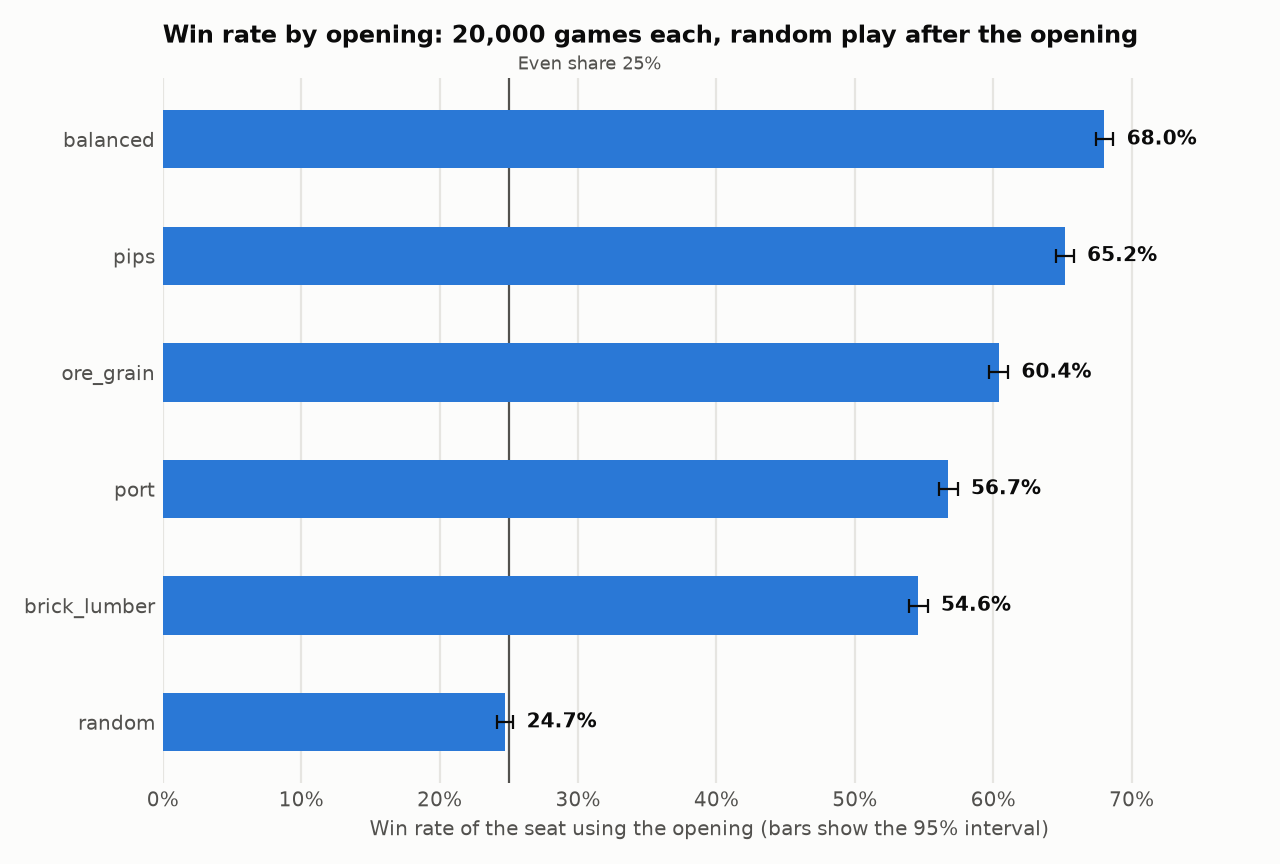
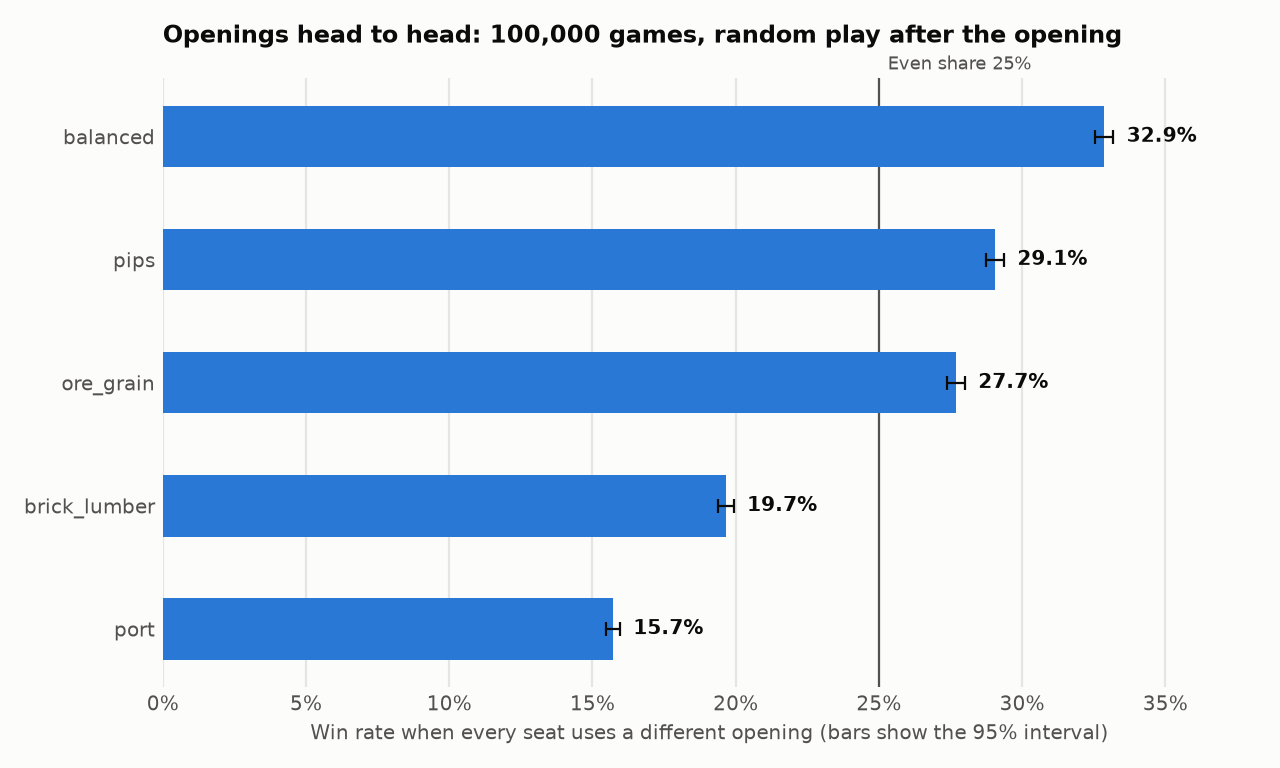
Make openings compete head to head
- tournament(): a different opening in every seat, line-ups and seats
  shuffled by seed, random play after the opening
- The openings command now runs the tournament by default; --vs-random
  keeps the old one-against-random test and --diff shows both
- Reports win rate with a 95% interval and average final points

100,000 games: balanced 32.9%, pips 29.1%, ore_grain 27.7%,
brick_lumber 19.7%, port 15.7% (even share 25%). 135 tests pass.

Claude-Session: https://claude.ai/code/session_01WC5th3RkuK2U1LpzMSe6fm

diff --git a/backend/src/engine/openings.py b/backend/src/engine/openings.py
@@ -1,14 +1,20 @@
 """Compare opening policies.
 
-One seat uses the opening under test; the other three open at random. Everyone
-plays at random after the opening, so any change in that seat's win rate comes
-from where it placed its first two settlements and roads.
+Everyone plays at random after the opening, so differences in win rate come
+from where the first two settlements and roads were placed.
 
-    uv run python -m src.engine.openings --games 20000 --workers 16 --plot ../docs
+Head to head (the default): every seat in a game uses a different opening, so
+the policies compete for the same spots. Line-ups and seats are shuffled.
+
+Against random (``--vs-random``): one seat uses the opening under test and the
+other three open at random.
+
+    uv run python -m src.engine.openings --games 100000 --workers 16 --diff --plot ../docs
 """
 import argparse
 import math
 import os
+import random
 import time
 from multiprocessing import Pool
 
@@ -28,6 +34,49 @@ def _play_batch(args):
             finished += 1
             wins += game.winner == seat
     return opening, wins, finished
+
+
+def _tournament_batch(args):
+    openings, seeds, num_players = args
+    plays = {name: 0 for name in openings}
+    wins = {name: 0 for name in openings}
+    points = {name: 0 for name in openings}
+    for seed in seeds:
+        # A different opening in every seat, drawn and ordered by the seed.
+        lineup = random.Random(seed * 7919 + 1).sample(openings, num_players)
+        game = run_game([PhasedBot(name) for name in lineup], seed)
+        if game.winner < 0:
+            continue
+        for seat, name in enumerate(lineup):
+            plays[name] += 1
+            points[name] += game.victory_points(seat)
+        wins[lineup[game.winner]] += 1
+    return plays, wins, points
+
+
+def tournament(openings, games, num_players=4, workers=1, seed=0):
+    """Play openings against each other, a different one in every seat.
+
+    Returns {opening: (wins, games played, total points)}.
+    """
+    openings = list(openings)
+    if len(openings) < num_players:
+        raise ValueError(f"need at least {num_players} openings to fill every seat")
+    seeds = range(seed, seed + games)
+    chunk = max(1, games // (max(workers, 1) * 4))
+    jobs = [(openings, seeds[i:i + chunk], num_players) for i in range(0, games, chunk)]
+    totals = {name: [0, 0, 0] for name in openings}
+    if workers <= 1:
+        results = list(map(_tournament_batch, jobs))
+    else:
+        with Pool(workers) as pool:
+            results = pool.map(_tournament_batch, jobs)
+    for plays, wins, points in results:
+        for name in openings:
+            totals[name][0] += wins[name]
+            totals[name][1] += plays[name]
+            totals[name][2] += points[name]
+    return {name: tuple(v) for name, v in totals.items()}
 
 
 def compare(openings, games, num_players=4, workers=1, seed=0):
@@ -61,14 +110,15 @@ def summarize(totals, num_players):
     """Rows of (opening, win rate, 95% margin, lift over an even share), best first."""
     even = 1 / num_players
     rows = []
-    for opening, (wins, n) in totals.items():
+    for opening, total in totals.items():
+        wins, n = total[0], total[1]
         rate = wins / n
         margin = 1.96 * math.sqrt(rate * (1 - rate) / n)
         rows.append((opening, rate, margin, rate - even))
     return sorted(rows, key=lambda row: -row[1])
 
 
-def plot(rows, num_players, games, path):
+def plot(rows, num_players, path, title, xlabel):
     """Save a bar chart of win rate by opening, with 95% intervals."""
     plt = _pyplot()
     rows = rows[::-1]
@@ -89,41 +139,79 @@ def plot(rows, num_players, games, path):
                     textcoords="offset points", va="center", color=_INK, fontsize=9, fontweight="bold")
     ax.set_xlim(0, max(r + m for r, m in zip(rates, margins)) * 1.15)
     ax.xaxis.set_major_formatter(lambda v, _: f"{v:.0f}%")
-    ax.set_xlabel("Win rate of the seat using the opening (bars show the 95% interval)", color=_MUTED, fontsize=9)
-    ax.set_title(f"Win rate by opening: {games:,} games each, random play after the opening",
-                 loc="left", color=_INK, fontsize=11, fontweight="bold", pad=16)
+    ax.set_xlabel(xlabel, color=_MUTED, fontsize=9)
+    ax.set_title(title, loc="left", color=_INK, fontsize=11, fontweight="bold", pad=16)
     fig.tight_layout()
     fig.savefig(path, facecolor=_SURFACE)
     plt.close(fig)
 
 
 def main():
+    competitors = sorted(name for name in OPENINGS if name != "random")
     parser = argparse.ArgumentParser(description="Compare opening policies")
-    parser.add_argument("--games", type=int, default=5000, help="games per opening")
+    parser.add_argument("--games", type=int, default=5000,
+                        help="games in the tournament, or games per opening with --vs-random")
     parser.add_argument("--players", type=int, default=4, choices=(2, 3, 4))
     parser.add_argument("--workers", type=int, default=1, help=f"processes to use (this machine has {os.cpu_count()})")
     parser.add_argument("--seed", type=int, default=0)
-    parser.add_argument("--openings", nargs="*", default=sorted(OPENINGS), choices=sorted(OPENINGS))
-    parser.add_argument("--plot", metavar="DIR", help="save openings.png here (needs matplotlib)")
+    parser.add_argument("--openings", nargs="*", default=competitors, choices=sorted(OPENINGS))
+    parser.add_argument("--vs-random", action="store_true",
+                        help="test each opening alone against three random openings instead")
+    parser.add_argument("--diff", action="store_true",
+                        help="after the tournament, also run --vs-random and show both side by side")
+    parser.add_argument("--plot", metavar="DIR", help="save a chart here (needs matplotlib)")
     args = parser.parse_args()
+    even = 1 / args.players
+    after = "random play after the opening"
+
+    if args.vs_random:
+        start = time.perf_counter()
+        rows = summarize(compare(args.openings, args.games, args.players, args.workers, args.seed), args.players)
+        elapsed = time.perf_counter() - start
+        print(f"Against random openings: {args.games} games per opening, {args.workers} worker(s), {elapsed:.1f} s")
+        print()
+        print(f"  {'opening':<14}{'win rate':>10}{'+/-':>8}{'vs even':>10}")
+        for opening, rate, margin, lift in rows:
+            print(f"  {opening:<14}{rate:>10.1%}{margin:>8.1%}{lift:>+10.1%}")
+        if args.plot:
+            os.makedirs(args.plot, exist_ok=True)
+            path = os.path.join(args.plot, "openings_vs_random.png")
+            plot(rows, args.players, path, f"Win rate against random openings: {args.games:,} games each, {after}",
+                 "Win rate of the seat using the opening (bars show the 95% interval)")
+            print()
+            print(f"  chart   {path}")
+        return
 
     start = time.perf_counter()
-    totals = compare(args.openings, args.games, args.players, args.workers, args.seed)
+    totals = tournament(args.openings, args.games, args.players, args.workers, args.seed)
     elapsed = time.perf_counter() - start
     rows = summarize(totals, args.players)
-    played = args.games * len(args.openings)
-
-    print(f"{args.games} games per opening, {args.players} players, {args.workers} worker(s)")
-    print(f"  time    {elapsed:.1f} s   ({played / elapsed:,.0f} games/s)")
-    print(f"\n  {'opening':<14}{'win rate':>10}{'+/-':>8}{'vs even':>10}")
+    print(f"Head to head: {args.games} games, a different opening in every seat, {args.workers} worker(s)")
+    print(f"  time    {elapsed:.1f} s   ({args.games / elapsed:,.0f} games/s)")
+    print()
+    print(f"  {'opening':<14}{'games':>8}{'win rate':>10}{'+/-':>8}{'vs even':>10}{'avg points':>12}")
     for opening, rate, margin, lift in rows:
-        print(f"  {opening:<14}{rate:>10.1%}{margin:>8.1%}{lift:>+10.1%}")
+        wins, played, points = totals[opening]
+        print(f"  {opening:<14}{played:>8}{rate:>10.1%}{margin:>8.1%}{lift:>+10.1%}{points / played:>12.2f}")
 
     if args.plot:
         os.makedirs(args.plot, exist_ok=True)
         path = os.path.join(args.plot, "openings.png")
-        plot(rows, args.players, args.games, path)
-        print(f"\n  chart   {path}")
+        plot(rows, args.players, path, f"Openings head to head: {args.games:,} games, {after}",
+             "Win rate when every seat uses a different opening (bars show the 95% interval)")
+        print()
+        print(f"  chart   {path}")
+
+    if args.diff:
+        per_opening = max(1, args.games // len(args.openings))
+        solo = {r[0]: r for r in summarize(
+            compare(args.openings, per_opening, args.players, args.workers, args.seed), args.players)}
+        print()
+        print(f"Head to head, next to each opening alone against three random openings ({per_opening} games each)")
+        print(f"  {'opening':<14}{'head to head':>14}{'rank':>6}{'vs random':>12}{'rank':>6}")
+        solo_rank = {name: i + 1 for i, name in enumerate(sorted(solo, key=lambda n: -solo[n][1]))}
+        for i, (opening, rate, _, lift) in enumerate(rows):
+            print(f"  {opening:<14}{rate:>14.1%}{i + 1:>6}{solo[opening][1]:>12.1%}{solo_rank[opening]:>6}")
 
 
 if __name__ == "__main__":

diff --git a/backend/tests/test_engine.py b/backend/tests/test_engine.py
@@ -552,3 +552,14 @@ def test_opening_comparison_counts_every_game_and_is_repeatable():
     assert totals == opening_experiment.compare(["random", "pips"], games=40, seed=1)
     rows = opening_experiment.summarize(totals, 4)
     assert rows[0][1] >= rows[1][1]
+
+
+def test_tournament_fills_every_seat_with_a_different_opening():
+    names = ["pips", "balanced", "ore_grain", "brick_lumber", "port"]
+    totals = opening_experiment.tournament(names, games=60, seed=2)
+    assert set(totals) == set(names)
+    assert sum(wins for wins, _, _ in totals.values()) == 60  # one winner per game
+    assert sum(played for _, played, _ in totals.values()) == 60 * 4
+    assert totals == opening_experiment.tournament(names, games=60, seed=2)
+    with pytest.raises(ValueError):
+        opening_experiment.tournament(["pips", "balanced"], games=1)

diff --git a/README.md b/README.md
@@ -68,24 +68,23 @@ bots = [PhasedBot("balanced"), PhasedBot("random"), PhasedBot("random"), PhasedB
 game = run_game(bots, seed=1)
 ```
 
-To compare openings, one seat uses the opening under test, the other three open at random, and everyone plays at random afterwards. The seat rotates and every opening sees the same seeds.
+Openings compete head to head: every seat in a game uses a different opening, with line-ups and seats shuffled, and everyone plays at random afterwards.
 
 ```bash
-uv run python -m src.engine.openings --games 20000 --workers 16 --plot ../docs
+uv run python -m src.engine.openings --games 100000 --workers 16 --diff --plot ../docs
 ```
 
-![Win rate by opening](docs/openings.png)
+![Openings head to head](docs/openings.png)
 
-| Opening | What it picks | Win rate |
-|---|---|---|
-| `balanced` | Most dice pips, plus a bonus for each different resource | 68.0% |
-| `pips` | Most dice pips | 65.2% |
-| `ore_grain` | Pips weighted toward ore and grain | 60.4% |
-| `port` | Pips plus a bonus for a harbour | 56.7% |
-| `brick_lumber` | Pips weighted toward brick and lumber | 54.6% |
-| `random` | Any legal spot | 24.7% |
+| Opening | What it picks | Head to head | Alone against random openings |
+|---|---|---|---|
+| `balanced` | Most dice pips, plus a bonus for each different resource | 32.9% | 68.0% |
+| `pips` | Most dice pips | 29.1% | 65.2% |
+| `ore_grain` | Pips weighted toward ore and grain | 27.7% | 60.4% |
+| `brick_lumber` | Pips weighted toward brick and lumber | 19.7% | 54.6% |
+| `port` | Pips plus a bonus for a harbour | 15.7% | 56.7% |
 
-Each is 20,000 games, accurate to about 0.7 points. These measure an opening against opponents who open at random, not against each other.
+An even share is 25%. Head-to-head figures come from 100,000 games (about 80,000 per opening) and are accurate to about 0.3 points. `--vs-random` runs the second column on its own.
 
 **How it stays fast:** board geometry is computed once at import. Game state is flat lists of integers indexed by player, hex, node and edge. Actions are single integers. Games are seeded, so any game can be replayed exactly.
 
